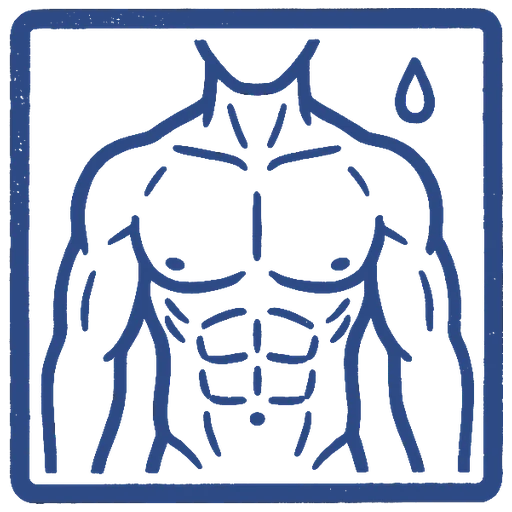
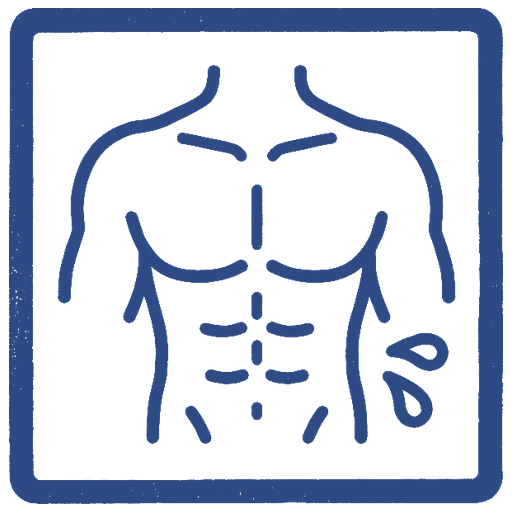
Encre japonaise : tampons couronne, étoile, soleil, fleur, diamant, arc en ciel ; sèche sans tête
Claude-Session: https://claude.ai/code/session_01MBUGLkxL9svd2kqbwm6f75

Changed region(s): [[0.0, 0.0, 0.9688, 1.0], [0.2812, 0.3125, 0.3438, 0.4062], [0.8438, 0.4062, 0.875, 0.4375]]

diff --git a/components/yoroi/v2/stickers.ts b/components/yoroi/v2/stickers.ts
@@ -346,6 +346,12 @@ export const ANCIENNES: Partial<Record<NomSticker, ImageSourcePropType>> = {
   koi_cascade: require('@/assets/avatars/app/tampons/record.webp'),
   balance_ancienne: require('@/assets/avatars/app/tampons/record_poids.webp'),
   saule: require('@/assets/avatars/app/tampons/frein_blessures.webp'),
+  couronne: require('@/assets/avatars/app/tampons/couronne.webp'),
+  etoile: require('@/assets/avatars/app/tampons/etoile.webp'),
+  soleil: require('@/assets/avatars/app/tampons/soleil.webp'),
+  fleur: require('@/assets/avatars/app/tampons/fleur.webp'),
+  diamant: require('@/assets/avatars/app/tampons/diamant.webp'),
+  arc_en_ciel: require('@/assets/avatars/app/tampons/arc_en_ciel.webp'),
 };
 
 // ============ le reglage Illustrations ============
